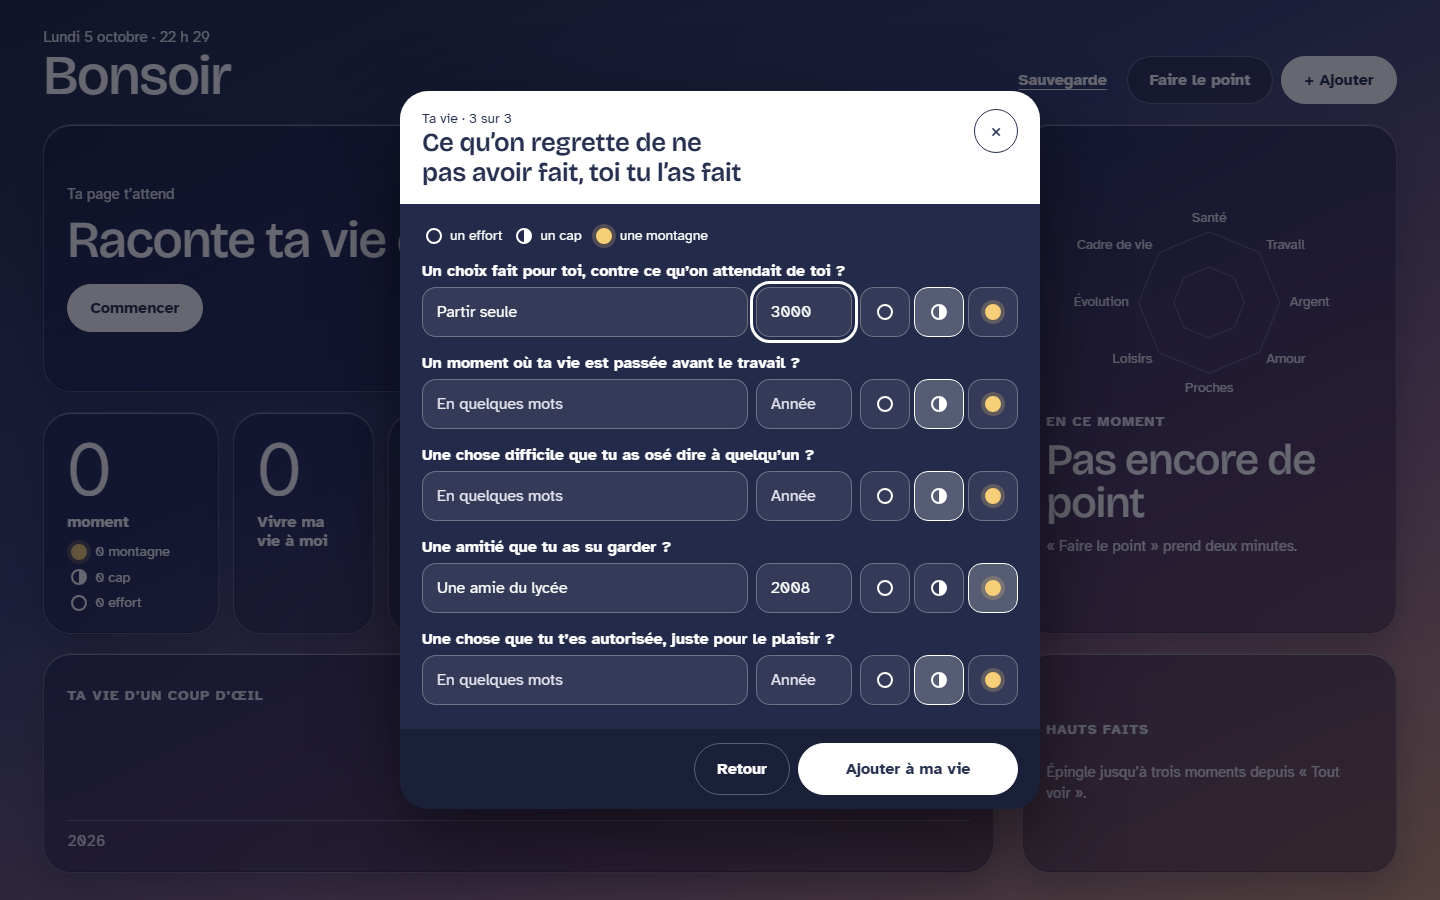
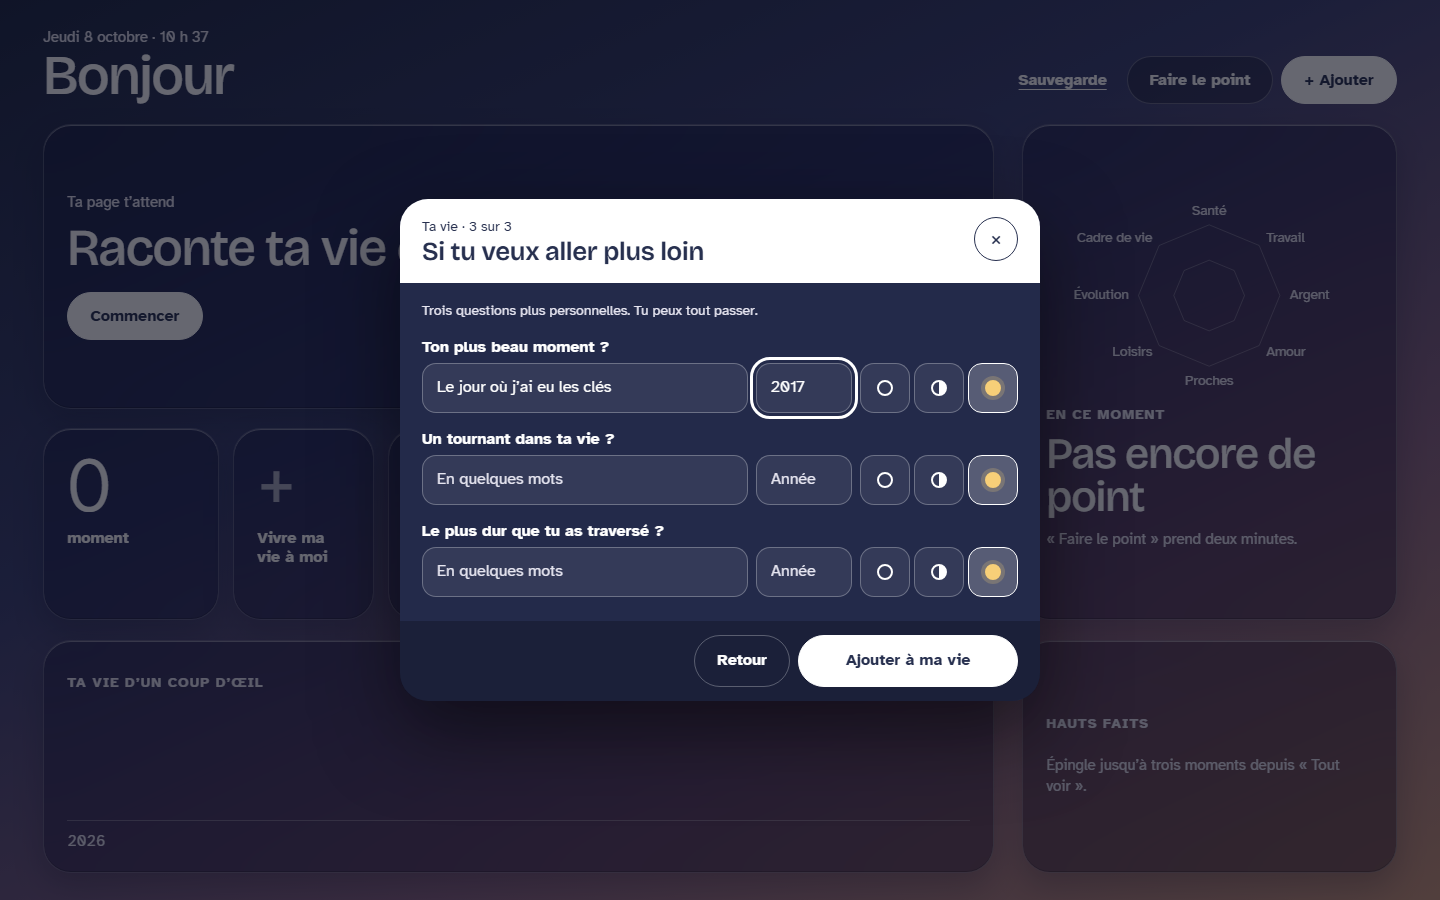
Trophées de vie : tout le questionnaire se touche
Sur la vraie page, seules les questions faciles avaient été remplies et cinq
tuiles sur six restaient à zéro : les cinq axes n'étaient alimentés que par
des questions ouvertes.

- Trente propositions à toucher, six par axe. Cochée, une proposition
  s'ouvre sur l'année et les trois lunes ; les passages aussi.
- Une tuile d'axe est un bouton qui ouvre ses propositions, et montre « + »
  plutôt que zéro quand elle est vide.
- Les trois scènes passent au dernier écran, qu'on peut sauter.
- Le total dit les passages, la légende cache les niveaux à zéro.
- Les modules portent le numéro de version, pour ne pas mélanger deux
  livraisons pendant les dix minutes de cache de Pages.

diff --git a/trophees-de-vie/js/app.js b/trophees-de-vie/js/app.js
@@ -2,10 +2,12 @@
 // (ajouter, faire le point, tout voir). Les règles sont dans coeur.js, rien n'est
 // calculé ici.
 
-import { ouvrir, demanderPersistance } from './stockage.js';
-import { NIVEAUX, PASSAGES, SCENES, AXES } from './config/vie.js';
-import { DOMAINES, METEOS, ELANS, MOIS, JOURS } from './config/domaines.js';
-import { comptes, parAxe, hautsFaits, ruban, souvenirDuJour, dernierPoint, pointDavant, phraseRoue } from './coeur.js';
+// Le numéro suit celui d'index.html : Pages garde un fichier dix minutes, et sans lui
+// un nouvel app.js pourrait charger une ancienne configuration.
+import { ouvrir, demanderPersistance } from './stockage.js?v=2';
+import { NIVEAUX, PASSAGES, SCENES, AXES } from './config/vie.js?v=2';
+import { DOMAINES, METEOS, ELANS, MOIS, JOURS } from './config/domaines.js?v=2';
+import { comptes, parAxe, hautsFaits, ruban, souvenirDuJour, dernierPoint, pointDavant, phraseRoue } from './coeur.js?v=2';
 
 const NS = 'http://www.w3.org/2000/svg';
 const $ = (id) => document.getElementById(id);
@@ -69,29 +71,35 @@ function dessinerSouvenir() {
   if (s.moment.note) sv.append(el('p', 'q', `« ${s.moment.note} »`));
 }
 
-function dessinerChiffres(vie) {
+function dessinerChiffres() {
   const ax = $('axes');
   ax.textContent = '';
   const c = comptes(etat.moments, NIVEAUX);
   const total = el('div', 'cell');
   total.append(el('span', 'num', String(c.total)), el('span', 'n', c.total > 1 ? 'moments' : 'moment'));
-  if (vie.debut != null) {
-    const duree = an() - vie.debut;
-    total.append(el('span', 'petit', duree > 0 ? `en ${duree} an${duree > 1 ? 's' : ''}` : 'cette année'));
-  }
+  // Une seule ligne courte sous le total : une de plus et la page ne tient plus sur
+  // un petit écran. La durée n'y est pas, le ruban la montre déjà.
+  const passages = etat.moments.filter((m) => m.genre === 'passage').length;
+  if (passages) total.append(el('span', 'petit', `dont ${pluriel(passages, ['passage', 'passages'])}`));
   const leg = el('span', 'leg');
   for (const n of [...NIVEAUX].reverse()) {
+    if (!c[n.id]) continue; // un niveau à zéro n'a rien à dire
     const i = el('span');
     i.append(lune(n.id), pluriel(c[n.id], n.mots));
     leg.append(i);
   }
   total.append(leg);
   ax.append(total);
+  // Chaque axe est un bouton : il ouvre ses propositions. Vide, il montre un « + »
+  // plutôt qu'un zéro, parce qu'un axe pas encore rempli n'est pas un échec.
   for (const a of parAxe(etat.moments, AXES)) {
-    const d = el('div', 'cell');
+    const d = bouton('cell axe');
     const pts = el('span', 'pts');
     for (const m of a.moments) pts.append(lune(m.niveau));
-    d.append(el('span', 'num', String(a.moments.length)), el('span', 'n', a.nom), pts);
+    const vide = !a.moments.length;
+    d.append(el('span', `num${vide ? ' plus' : ''}`, vide ? '+' : String(a.moments.length)), el('span', 'n', a.nom), pts);
+    d.setAttribute('aria-label', vide ? `${a.nom} : ajouter` : `${a.nom} : ${pluriel(a.moments.length, ['moment', 'moments'])}, ajouter`);
+    d.addEventListener('click', () => ouvrirAxe(a));
     ax.append(d);
   }
 }
@@ -176,7 +184,7 @@ function dessiner() {
   const vie = ruban(etat.moments, an());
   heure();
   dessinerSouvenir();
-  dessinerChiffres(vie);
+  dessinerChiffres();
   dessinerRuban(vie);
   dessinerHautsFaits();
   dessinerMoment();
@@ -267,21 +275,56 @@ function question(corps, id, texte, reponse, { aide, sansNiveau } = {}) {
   q.append(lb);
   if (aide) q.append(el('span', 'aide', aide));
   ligne.append(mots, annee);
-  if (!sansNiveau) {
-    const niv = el('div', 'niv');
-    niv.setAttribute('role', 'group');
-    niv.setAttribute('aria-label', 'À quel point c’était dur');
-    for (const n of NIVEAUX) {
-      const b = bouton(null, null, reponse.niveau === n.id);
-      b.id = `n-${id}-${n.id}`; b.title = n.nom; b.setAttribute('aria-label', n.nom);
-      b.append(lune(n.id));
-      b.addEventListener('click', () => { reponse.niveau = n.id; for (const o of niv.children) o.setAttribute('aria-pressed', String(o === b)); });
-      niv.append(b);
-    }
-    ligne.append(niv);
-  }
+  if (!sansNiveau) ligne.append(lunes(`n-${id}`, reponse));
   q.append(ligne);
   corps.append(q);
+}
+
+// Les trois lunes : à quel point c'était dur.
+function lunes(id, reponse) {
+  const niv = el('div', 'niv');
+  niv.setAttribute('role', 'group');
+  niv.setAttribute('aria-label', 'À quel point c’était dur');
+  for (const n of NIVEAUX) {
+    const b = bouton(null, null, reponse.niveau === n.id);
+    b.id = `${id}-${n.id}`; b.title = n.nom; b.setAttribute('aria-label', n.nom);
+    b.append(lune(n.id));
+    b.addEventListener('click', () => { reponse.niveau = n.id; for (const o of niv.children) o.setAttribute('aria-pressed', String(o === b)); });
+    niv.append(b);
+  }
+  return niv;
+}
+
+// Des propositions à toucher. Une proposition cochée demande l'année et le niveau,
+// sur place ; une proposition déjà dans la vie reste cochée et ne se recoche pas.
+function puces(corps, propositions, coches, deja, niveauDefaut = 'cap') {
+  const c = el('div', 'chips');
+  const dessinerUne = (p) => {
+    const boite = el('div', 'puce');
+    const fait = deja.has(p.id);
+    const reponse = coches.get(p.id);
+    const b = bouton('puce-t', p.titre, fait || Boolean(reponse));
+    b.id = `pu-${p.id}`;
+    if (fait) { b.disabled = true; b.title = 'Déjà dans ta vie'; }
+    boite.append(b);
+    if (fait || reponse) boite.classList.add('on');
+    if (reponse) {
+      const a = el('input');
+      a.type = 'number'; a.inputMode = 'numeric'; a.placeholder = 'Année'; a.id = `an-${p.id}`; a.value = reponse.annee;
+      a.setAttribute('aria-label', `Année de : ${p.titre}`);
+      a.addEventListener('input', () => { reponse.annee = a.value; });
+      boite.append(a, lunes(`nv-${p.id}`, reponse));
+    }
+    b.addEventListener('click', () => {
+      if (coches.has(p.id)) coches.delete(p.id); else coches.set(p.id, { annee: '', niveau: niveauDefaut });
+      const neuve = dessinerUne(p);
+      boite.replaceWith(neuve);
+      (neuve.querySelector('input') ?? neuve.querySelector('button')).focus();
+    });
+    return boite;
+  };
+  for (const p of propositions) c.append(dessinerUne(p));
+  corps.append(c);
 }
 
 function choix(corps, libelles, courant, regler, enLigne) {
@@ -295,66 +338,78 @@ function choix(corps, libelles, courant, regler, enLigne) {
 }
 
 const moment = (genre, cle, r, suite = {}) => ({
-  genre, passage: genre === 'passage' ? cle : null, scene: genre === 'scene' ? cle : null, axe: genre === 'axe' ? cle : null,
+  genre, passage: genre === 'passage' ? cle : null, scene: genre === 'scene' ? cle : null, axe: genre === 'axe' ? cle : null, proposition: null,
   titre: r.titre.trim(), niveau: r.niveau, annee: anneeValide(r.annee), date: null, note: '', hautFait: false, rappel: true, ...suite,
 });
 const rempli = (r) => (r.titre ?? '').trim().length > 0;
 
-// ---------- Ajouter : trois écrans ----------
+// ---------- Ajouter : tout se touche, rien ne s'écrit sauf si on le veut ----------
+
+// Ce qui est déjà dans la vie, par identifiant de passage ou de proposition.
+const dejaVecus = () => new Set(etat.moments.flatMap((m) => [m.passage, m.proposition]).filter(Boolean));
+
+// Les moments à écrire à partir de ce qui est coché.
+function momentsCoches(coches) {
+  const nouveaux = [];
+  for (const p of PASSAGES) if (coches.has(p.id)) nouveaux.push(moment('passage', p.id, { titre: p.titre, ...coches.get(p.id) }));
+  for (const a of AXES) for (const p of a.propositions) if (coches.has(p.id)) nouveaux.push(moment('axe', a.id, { titre: p.titre, ...coches.get(p.id) }, { proposition: p.id }));
+  return nouveaux;
+}
+
+async function enregistrer(nouveaux) {
+  for (const m of nouveaux) await etat.base.ecrire('moments', m);
+  fermerVolet();
+  if (!nouveaux.length) return;
+  await rafraichir();
+  demanderPersistance();
+  annoncer(nouveaux.length > 1 ? `${nouveaux.length} moments ajoutés` : 'Moment ajouté', `${pluriel(etat.moments.length, ['moment', 'moments'])} en tout`);
+}
 
 function ouvrirAjout() {
-  const dejaVecus = new Set(etat.moments.filter((m) => m.passage).map((m) => m.passage));
-  const coches = new Map(); // identifiant du passage → année saisie
+  const deja = dejaVecus();
+  const coches = new Map(); // identifiant → { annee, niveau }
   const autre = { niveau: 'cap' };
   const scenes = SCENES.map(() => ({ niveau: 'montagne' }));
-  const axes = AXES.map(() => ({ niveau: 'cap' }));
 
   ouvrirVolet('add', [
-    { label: 'Ta vie', titre: 'Lesquels de ces passages as-tu vécus ?', dessiner: function rendu(corps, aViser) {
-      corps.textContent = '';
-      const c = el('div', 'chips');
-      PASSAGES.forEach((p, i) => {
-        const fait = dejaVecus.has(p.id);
-        const b = bouton('chip', null, fait || coches.has(p.id));
-        b.append(p.titre);
-        if (fait) { b.disabled = true; b.title = 'Déjà dans ta vie'; }
-        if (coches.has(p.id)) {
-          const a = el('input');
-          a.type = 'number'; a.inputMode = 'numeric'; a.placeholder = 'Année'; a.id = `p-${p.id}`; a.value = coches.get(p.id);
-          a.setAttribute('aria-label', `Année de : ${p.titre}`);
-          a.addEventListener('click', (e) => e.stopPropagation());
-          a.addEventListener('keydown', (e) => e.stopPropagation());
-          a.addEventListener('keyup', (e) => e.stopPropagation());
-          a.addEventListener('input', () => coches.set(p.id, a.value));
-          b.append(a);
-        }
-        b.addEventListener('click', () => { if (coches.has(p.id)) coches.delete(p.id); else coches.set(p.id, ''); rendu(corps, i); });
-        c.append(b);
-      });
-      corps.append(c, el('p', 'aide', 'L’année est facultative.'));
+    { label: 'Ta vie', titre: 'Lesquels de ces passages as-tu vécus ?', dessiner(corps) {
+      legende(corps);
+      puces(corps, PASSAGES, coches, deja);
       question(corps, 'autre', 'Un autre passage qui a compté ?', autre);
-      if (aViser != null) { const cible = c.children[aViser]; (cible.querySelector('input') ?? cible).focus(); }
     } },
-    { label: 'Ta vie', titre: 'Trois moments qui t’ont faite', dessiner(corps) {
+    { label: 'Ta vie', titre: 'Et ça, tu l’as déjà fait ?', dessiner(corps) {
       legende(corps);
-      SCENES.forEach((s, i) => question(corps, `s-${s.id}`, s.question, scenes[i], { aide: s.facultatif ? 'Tu peux passer cette question.' : null }));
+      for (const a of AXES) {
+        const g = el('div', 'groupe');
+        g.append(el('h3', 'lab', a.nom));
+        puces(g, a.propositions, coches, deja);
+        corps.append(g);
+      }
     } },
-    { label: 'Ta vie', titre: 'Ce qu’on regrette de ne pas avoir fait, toi tu l’as fait', dessiner(corps) {
-      legende(corps);
-      AXES.forEach((a, i) => question(corps, `x-${a.id}`, a.question, axes[i]));
+    { label: 'Ta vie', titre: 'Si tu veux aller plus loin', dessiner(corps) {
+      corps.append(el('p', 'aide', 'Trois questions plus personnelles. Tu peux tout passer.'));
+      SCENES.forEach((sc, i) => question(corps, `s-${sc.id}`, sc.question, scenes[i]));
     } },
   ], 'Ajouter à ma vie', async () => {
-    const nouveaux = [];
-    for (const p of PASSAGES) if (coches.has(p.id)) nouveaux.push(moment('passage', p.id, { titre: p.titre, niveau: 'cap', annee: coches.get(p.id) }));
+    const nouveaux = momentsCoches(coches);
     if (rempli(autre)) nouveaux.push(moment('passage', null, autre));
-    SCENES.forEach((s, i) => { if (rempli(scenes[i])) nouveaux.push(moment('scene', s.id, scenes[i], { rappel: !s.discret })); });
-    AXES.forEach((a, i) => { if (rempli(axes[i])) nouveaux.push(moment('axe', a.id, axes[i])); });
-    for (const m of nouveaux) await etat.base.ecrire('moments', m);
-    fermerVolet();
-    if (!nouveaux.length) return;
-    await rafraichir();
-    demanderPersistance();
-    annoncer(nouveaux.length > 1 ? `${nouveaux.length} moments ajoutés` : 'Moment ajouté', `${pluriel(etat.moments.length, ['moment', 'moments'])} en tout`);
+    SCENES.forEach((sc, i) => { if (rempli(scenes[i])) nouveaux.push(moment('scene', sc.id, scenes[i], { rappel: !sc.discret })); });
+    await enregistrer(nouveaux);
+  });
+}
+
+// Un axe seul, ouvert depuis sa tuile.
+function ouvrirAxe(a) {
+  const coches = new Map();
+  const libre = { niveau: 'cap' };
+  ouvrirVolet('add', [{ label: 'Ta vie', titre: a.nom, dessiner(corps) {
+    legende(corps);
+    puces(corps, a.propositions, coches, dejaVecus());
+    question(corps, `x-${a.id}`, a.question, libre);
+  } }], 'Ajouter à ma vie', async () => {
+    const nouveaux = momentsCoches(coches);
+    if (rempli(libre)) nouveaux.push(moment('axe', a.id, libre));
+    await enregistrer(nouveaux);
   });
 }
 

diff --git a/trophees-de-vie/js/config/vie.js b/trophees-de-vie/js/config/vie.js
@@ -38,10 +38,51 @@ export const SCENES = [
 
 // Les cinq regrets recueillis par Bronnie Ware auprès de personnes en fin de vie,
 // retournés en ce qu'on a déjà fait. C'est un témoignage, pas une étude.
+//
+// `propositions` : des choses concrètes à toucher, sans rien écrire. Elles sont de
+// nous, pas d'une étude : elles déclinent chaque regret en gestes reconnaissables.
+// Sans elles, seules des questions ouvertes et intimes remplissaient les axes, et
+// la page restait aux cinq sixièmes vide (constaté sur sa vraie page, 2026-10-08).
+// Un identifiant de proposition ne se renomme jamais : les moments gardés le portent.
 export const AXES = [
-  { id: 'vivre', nom: 'Vivre ma vie à moi', question: 'Un choix fait pour toi, contre ce qu’on attendait de toi ?' },
-  { id: 'hors', nom: 'Vivre hors du travail', question: 'Un moment où ta vie est passée avant le travail ?' },
-  { id: 'dire', nom: 'Dire ce que je ressens', question: 'Une chose difficile que tu as osé dire à quelqu’un ?' },
-  { id: 'amis', nom: 'Garder mes amis', question: 'Une amitié que tu as su garder ?' },
-  { id: 'bonheur', nom: 'M’autoriser le bonheur', question: 'Une chose que tu t’es autorisée, juste pour le plaisir ?' },
+  { id: 'vivre', nom: 'Vivre ma vie à moi', question: 'Un autre choix fait pour toi ?', propositions: [
+    { id: 'vivre-changer-voie', titre: 'Changer de voie' },
+    { id: 'vivre-ailleurs', titre: 'Partir vivre ailleurs' },
+    { id: 'vivre-seule', titre: 'Vivre seule' },
+    { id: 'vivre-dire-non', titre: 'Dire non à ce qu’on attendait de moi' },
+    { id: 'vivre-mon-compte', titre: 'Me lancer à mon compte' },
+    { id: 'vivre-etudes', titre: 'Reprendre des études' },
+  ] },
+  { id: 'hors', nom: 'Vivre hors du travail', question: 'Un autre moment où ta vie est passée avant le travail ?', propositions: [
+    { id: 'hors-vacances', titre: 'Prendre de vraies vacances' },
+    { id: 'hors-passion', titre: 'Tenir un sport ou une passion' },
+    { id: 'hors-refuser', titre: 'Refuser des heures en plus' },
+    { id: 'hors-conge', titre: 'Prendre un congé pour moi' },
+    { id: 'hors-apprendre', titre: 'Apprendre quelque chose pour le plaisir' },
+    { id: 'hors-les-miens', titre: 'Choisir les miens plutôt que le travail' },
+  ] },
+  { id: 'dire', nom: 'Dire ce que je ressens', question: 'Autre chose que tu as osé dire ?', propositions: [
+    { id: 'dire-je-taime', titre: 'Dire je t’aime' },
+    { id: 'dire-aide', titre: 'Demander de l’aide' },
+    { id: 'dire-excuses', titre: 'M’excuser' },
+    { id: 'dire-limite', titre: 'Poser une limite' },
+    { id: 'dire-ca-ne-va-pas', titre: 'Dire ce qui n’allait pas' },
+    { id: 'dire-merci', titre: 'Remercier quelqu’un qui a compté' },
+  ] },
+  { id: 'amis', nom: 'Garder mes amis', question: 'Une autre amitié que tu as su garder ?', propositions: [
+    { id: 'amis-longue-date', titre: 'Garder une amitié de longue date' },
+    { id: 'amis-retrouver', titre: 'Retrouver un ami perdu de vue' },
+    { id: 'amis-etre-la', titre: 'Être là pour un ami dans un moment dur' },
+    { id: 'amis-premier-pas', titre: 'Faire le premier pas' },
+    { id: 'amis-distance', titre: 'Traverser la distance pour voir un ami' },
+    { id: 'amis-temoin', titre: 'Être témoin, marraine ou parrain' },
+  ] },
+  { id: 'bonheur', nom: 'M’autoriser le bonheur', question: 'Autre chose que tu t’es autorisée ?', propositions: [
+    { id: 'bonheur-cadeau', titre: 'M’offrir quelque chose dont je rêvais' },
+    { id: 'bonheur-feter', titre: 'Fêter une réussite' },
+    { id: 'bonheur-voyage', titre: 'Voyager rien que pour le plaisir' },
+    { id: 'bonheur-temps', titre: 'Prendre du temps pour moi sans culpabiliser' },
+    { id: 'bonheur-reve', titre: 'Réaliser un rêve d’enfant' },
+    { id: 'bonheur-oser', titre: 'Oser quelque chose de fou' },
+  ] },
 ];

diff --git a/trophees-de-vie/css/app.css b/trophees-de-vie/css/app.css
@@ -185,3 +185,18 @@ h1{font:500 clamp(34px,4.2vw,56px)/1 var(--display);letter-spacing:-.02em}
 .bloc input[type=file]{font-size:15px;max-width:100%}
 .bloc input[type=file]::file-selector-button{min-height:44px;margin-right:12px;padding:0 16px;border-radius:22px;border:1.5px solid var(--line);background:rgba(255,255,255,.08);color:inherit;font:inherit;font-weight:700;cursor:pointer}
 .alerte{font-weight:700;color:var(--or)}
+
+/* Un axe est un bouton : vide, il invite par un « + » au lieu d'afficher zéro */
+button.cell{font:inherit;color:inherit;text-align:left;align-items:flex-start;cursor:pointer;transition:border-color .2s}
+button.cell:hover{border-color:rgba(255,255,255,.6)}
+.num.plus{opacity:.6}
+
+/* Propositions à toucher : cochée, la puce s'ouvre sur l'année et les trois lunes */
+.puce{display:flex;flex-wrap:wrap;align-items:center;gap:6px;max-width:100%;border-radius:25px;border:1.5px solid var(--line);background:rgba(255,255,255,.08);transition:border-radius .2s cubic-bezier(.25,1,.5,1)}
+.puce.on{border-color:#FFFFFF;background:rgba(255,255,255,.2);border-radius:14px;padding-right:6px}
+.puce-t{min-height:48px;padding:6px 16px;border:0;border-radius:inherit;background:none;font-weight:700;line-height:1.2;text-align:left}
+.puce-t:disabled{cursor:default;opacity:.75}
+.puce input{width:84px;min-height:40px;border-radius:10px;border:1.5px solid var(--line);background:rgba(10,12,30,.3);padding:0 10px}
+.puce .niv button{width:44px;height:44px;border-radius:12px;background:transparent}
+.groupe{display:grid;gap:8px}
+.groupe .lab{margin:6px 0 0}

diff --git a/trophees-de-vie/tests/coeur.test.js b/trophees-de-vie/tests/coeur.test.js
@@ -23,13 +23,17 @@ test('la configuration : trois niveaux, cinq axes, trois scènes, des passages s
     const ids = groupe.map((x) => x.id);
     assert.equal(new Set(ids).size, ids.length, `identifiant en double dans ${ids}`);
   }
+  const propositions = AXES.flatMap((a) => a.propositions);
+  for (const a of AXES) assert.ok(a.propositions.length >= 5 && a.propositions.length <= 7, `${a.id} : ${a.propositions.length} propositions`);
+  const idsATouchers = [...PASSAGES, ...propositions].map((x) => x.id);
+  assert.equal(new Set(idsATouchers).size, idsATouchers.length, 'un passage et une proposition partagent un identifiant');
   assert.equal(DOMAINES.length, 8);
   assert.equal(METEOS.length, 5);
   assert.equal(ELANS.length, 3);
 });
 
 test('la configuration : aucun tiret long, aucun mot médical', () => {
-  const textes = [...NIVEAUX, ...PASSAGES, ...SCENES, ...AXES, ...DOMAINES]
+  const textes = [...NIVEAUX, ...PASSAGES, ...SCENES, ...AXES, ...AXES.flatMap((a) => a.propositions), ...DOMAINES]
     .flatMap((x) => [x.titre, x.nom, x.question].filter(Boolean)).concat(METEOS, ELANS);
   for (const texte of textes) {
     assert.ok(!/[–—]/.test(texte), `tiret dans « ${texte} »`);

diff --git a/trophees-de-vie/index.html b/trophees-de-vie/index.html
@@ -8,7 +8,7 @@
 <meta name="theme-color" content="#1F2A44">
 <link rel="icon" href="icone.svg" type="image/svg+xml">
 <link rel="preload" href="polices/bricolage.woff2" as="font" type="font/woff2" crossorigin>
-<link rel="stylesheet" href="css/app.css?v=1">
+<link rel="stylesheet" href="css/app.css?v=2">
 </head>
 <body>
 <div class="page">
@@ -54,6 +54,6 @@
 </div>
 <div class="toast" id="toast" role="status" aria-live="polite"></div>
 
-<script type="module" src="js/app.js?v=1"></script>
+<script type="module" src="js/app.js?v=2"></script>
 </body>
 </html>

diff --git a/trophees-de-vie/CLAUDE.md b/trophees-de-vie/CLAUDE.md
@@ -38,9 +38,13 @@ Ce n'est plus une PWA (décidé le 2026-10-05).
 ## Pièges
 
 - GitHub Pages garde un fichier dix minutes. `index.html` appelle `app.css?v=N` et
-  `app.js?v=N` : monter N à chaque livraison. Les modules importés par `app.js`
-  ne portent pas ce numéro, donc après une livraison l'ancien et le nouveau peuvent
-  se mélanger pendant dix minutes.
+  `app.js?v=N`, et `app.js` importe ses quatre modules avec le même `?v=N` : monter
+  N aux SEPT endroits à chaque livraison, sinon l'ancien et le nouveau se mélangent.
+- Un identifiant de passage ou de proposition ne se renomme jamais : les moments
+  gardés dans son navigateur le portent, et c'est lui qui empêche de recocher.
+- Tout ce qui remplit la page doit pouvoir se toucher sans rien écrire. Les questions
+  ouvertes restent, mais en plus : sur sa vraie page, elle n'a répondu qu'aux
+  questions faciles et cinq tuiles sur six sont restées vides (2026-10-08).
 - `?base=nom` ouvre une autre base : c'est ce qui permet aux essais de ne jamais
   toucher à la vraie.
 
